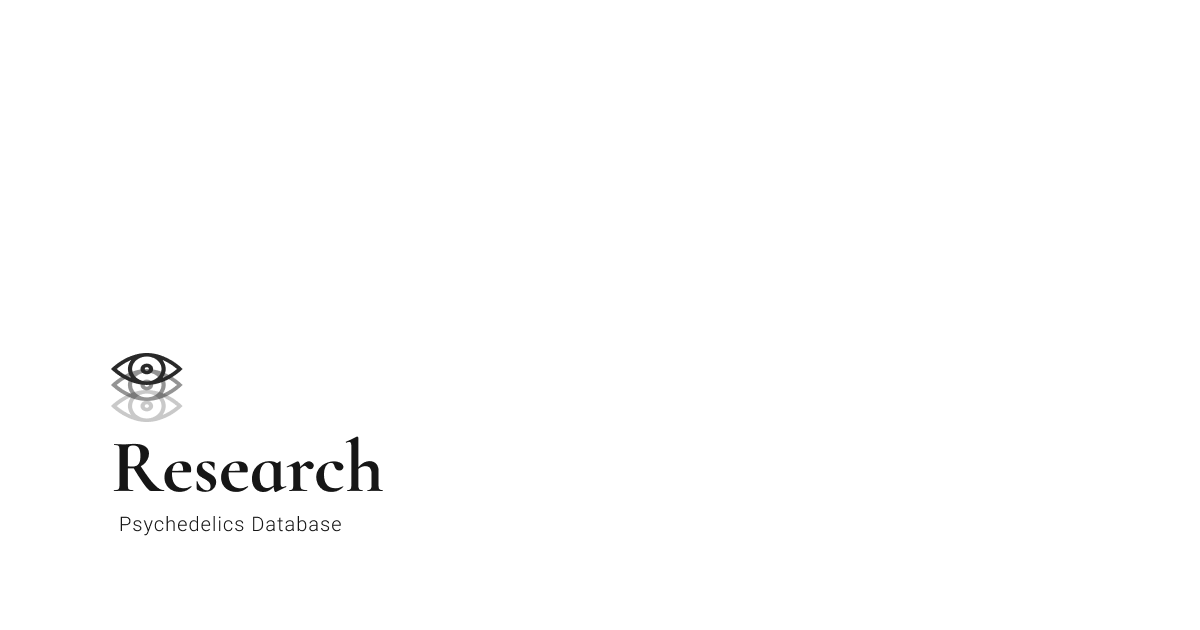
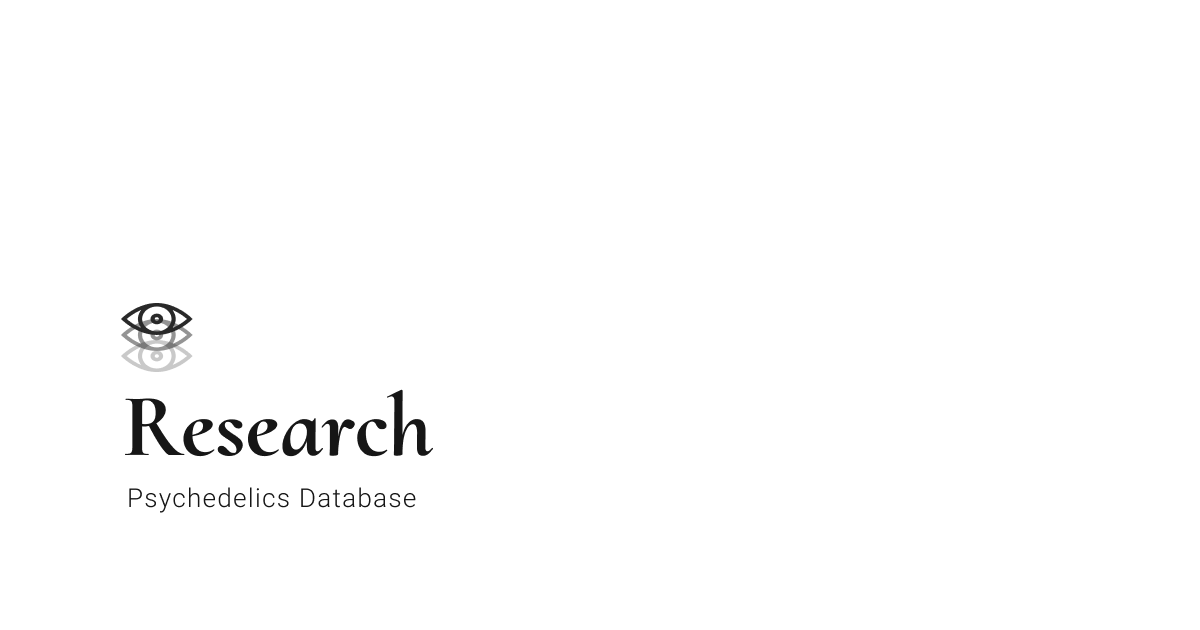
chore: Update og-image

Changed region(s): [[0.0925, 0.4825, 0.37, 0.8444]]

diff --git a/app/api/og-research/route.tsx b/app/api/og-research/route.tsx
@@ -40,8 +40,8 @@ export async function GET(request: NextRequest) {
             backgroundColor: 'white',
           }}
         >
-          <div tw='flex flex-col absolute bottom-16 left-20'>
-            <div tw='flex relative flex-col mb-8'>
+          <div tw='flex flex-col absolute bottom-20 left-20'>
+            <div tw='flex relative flex-col mb-10'>
               <svg
                 viewBox='0 0 166 81'
                 fill='#292929'
@@ -73,7 +73,7 @@ export async function GET(request: NextRequest) {
               </svg>
             </div>
             <div
-              tw='leading-tight mb-5 text-5xl max-w-3xl font-medium'
+              tw='leading-tight mb-12 text-[3.35rem] leading-[1.1] max-w-4xl font-medium'
               style={{ fontFamily: 'CormorantUpright' }}
             >
               {title}
